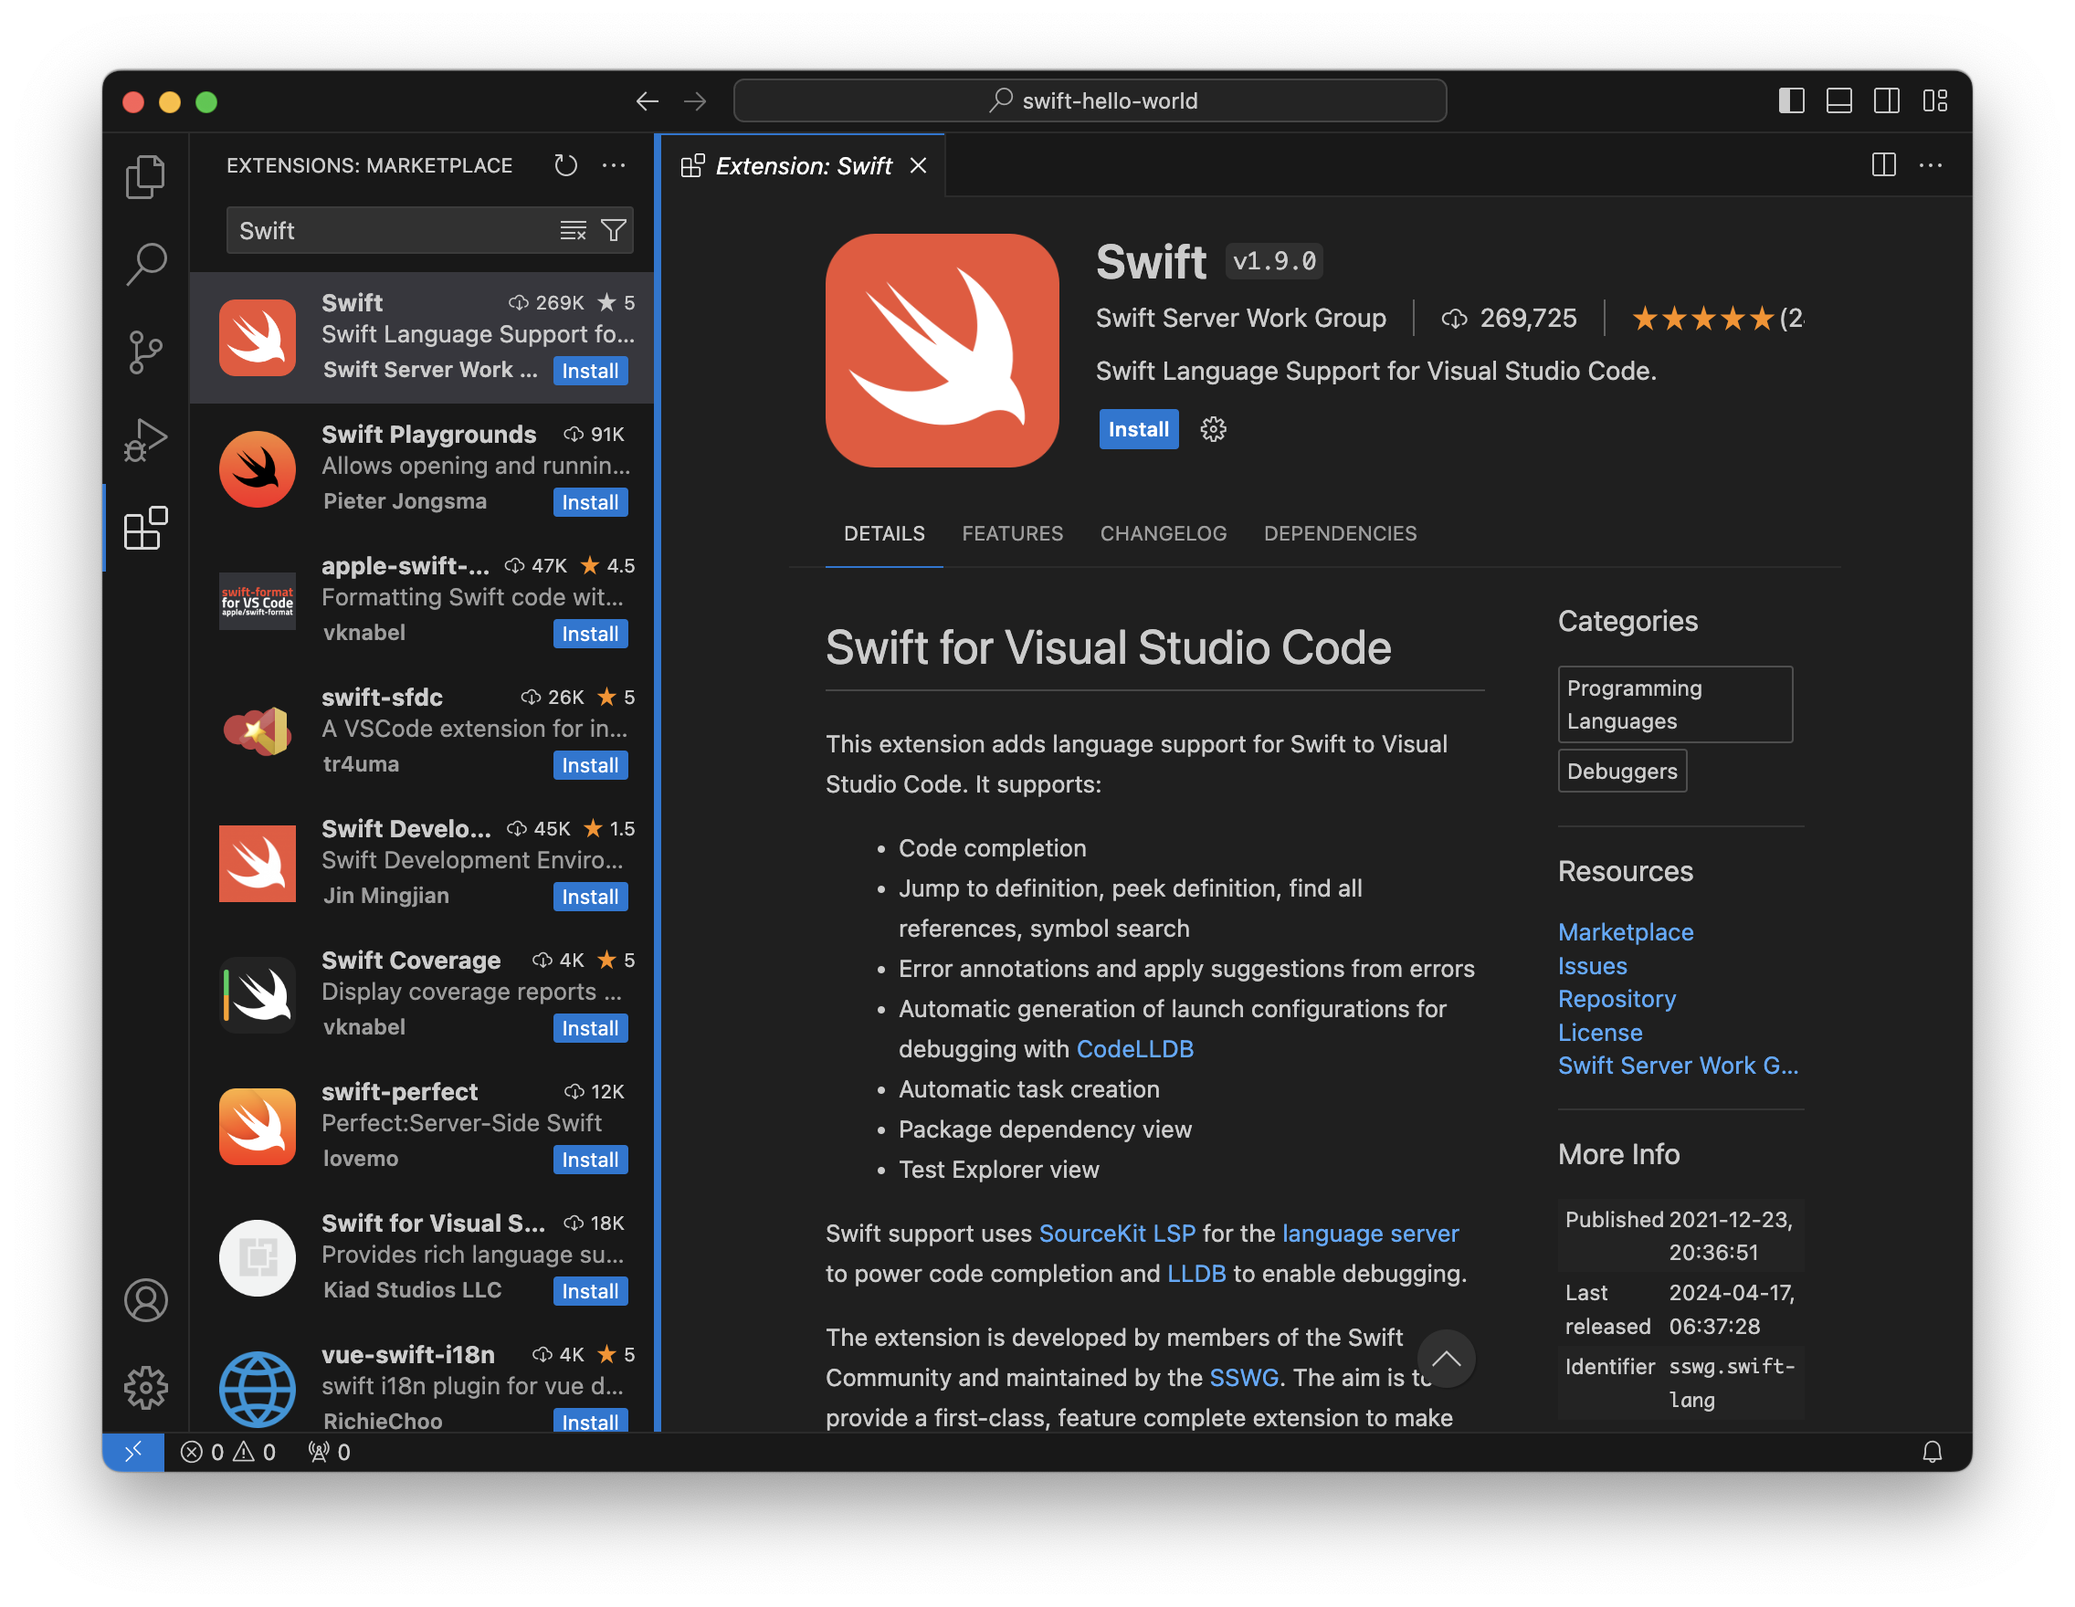
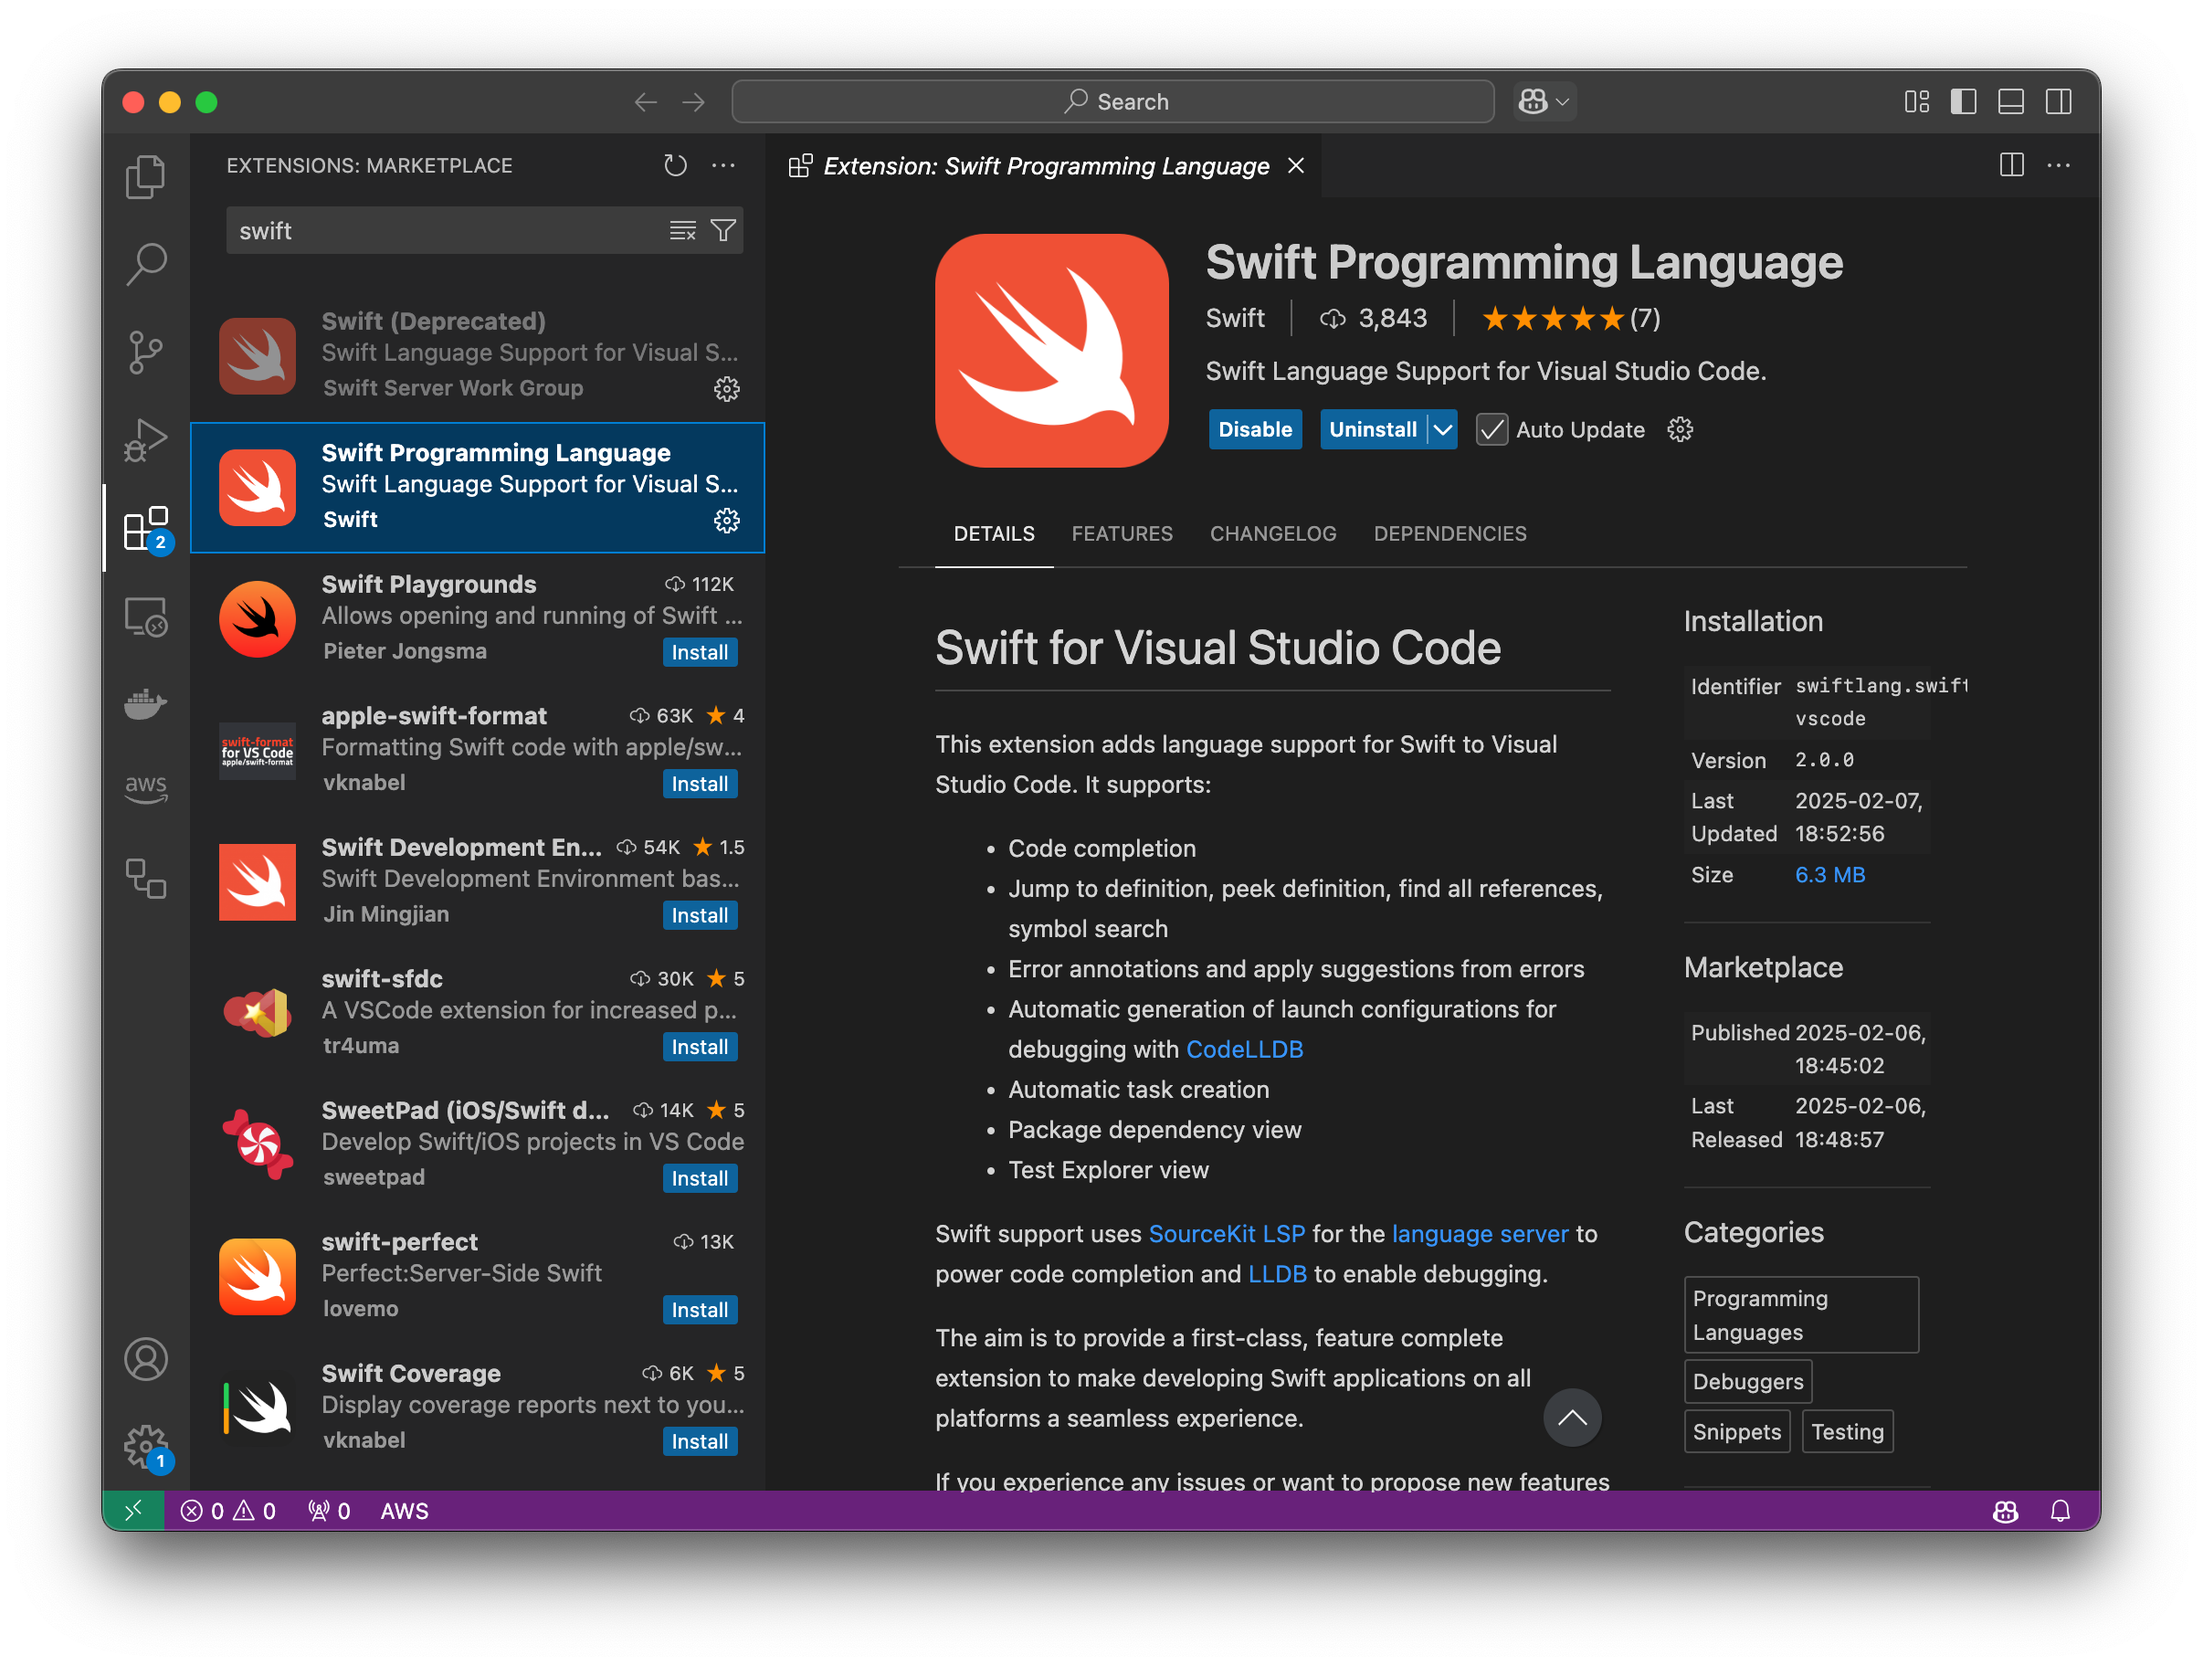
Update extension references and remove old guide

Changed region(s): [[0.0312, 0.0312, 0.9688, 0.9688], [0.75, 0.3438, 0.875, 0.6875]]

diff --git a/gsoc2024/index.md b/gsoc2024/index.md
@@ -147,7 +147,7 @@ Provide all keyword or punctuator completions that are valid at a certain positi
 
 Swift Macros allow the generation of source code at compile time. While this provides concise code and avoids repetition of common paradigms, understanding the source code can become harder if it is unknown what the macro expands to. 
 
-Visual Studio Code using the [Swift Extension](https://marketplace.visualstudio.com/items?itemName=sswg.swift-lang) currently has limited ability to show the code generated by a macro by invoking a code action that replaces the macro by its generated code inside the current source file. 
+Visual Studio Code using the [Swift Extension](https://marketplace.visualstudio.com/items?itemName=swiftlang.swift-vscode) currently has limited ability to show the code generated by a macro by invoking a code action that replaces the macro by its generated code inside the current source file. 
 
 The project's goal is to implement a code action to show the macro-generated code without modifying the current source file. This includes the implementation of a request in [sourcekit-lsp](https://github.com/swiftlang/sourcekit-lsp) to compute the contents of the macro expansion and support in the Visual Studio Swift Extension to display that content. Some initial discussion of how the design could look like can be found in [this thread](https://github.com/swiftlang/sourcekit-lsp/pull/892#discussion_r1358428808).
 

diff --git a/_posts/2023-08-17-sswg-update-2023.md b/_posts/2023-08-17-sswg-update-2023.md
@@ -42,7 +42,7 @@ We're also excited to see the introduction of [Custom Actor Executors](https://g
 
 Notable highlights in tooling include:
 
-* The [Swift Extension for Visual Studio Code](https://marketplace.visualstudio.com/items?itemName=sswg.swift-lang) reached version 1.0.0 and added new features like Swift Package plugin integration, Test Coverage and Test Explorer support, and more.
+* The [Swift Extension for Visual Studio Code](https://marketplace.visualstudio.com/items?itemName=swiftlang.swift-vscode) reached version 1.0.0 and added new features like Swift Package plugin integration, Test Coverage and Test Explorer support, and more.
 * Swift Package plugins have seen adoption in many libraries, from formatters and linters, to code generators such as [SwiftProtobuf](https://github.com/apple/swift-protobuf/tree/main/Plugins/SwiftProtobufPlugin), [gRPC swift](https://github.com/grpc/grpc-swift/tree/main/Plugins/GRPCSwiftPlugin), [Smoke](https://github.com/amzn/smoke-framework-application-generate/tree/main/Plugins), and [Soto](https://soto.codes/2022/12/build-plugin-experiments.html).
 * [Swiftly](https://github.com/swift-server/swiftly) is now available to try out and provides a simple way to install Swift on Linux and switch between versions.
 

diff --git a/_posts/2022-07-14-vscode-extension.md b/_posts/2022-07-14-vscode-extension.md
@@ -6,7 +6,7 @@ title: Swift Extension for Visual Studio Code
 author: adam-fowler
 ---
 
-As Swift is deployed across more platforms, it is important that Swift can be developed on more platforms as well. The [Swift Extension for Visual Studio Code](https://marketplace.visualstudio.com/items?itemName=sswg.swift-lang) provides a cross-platform solution for Swift development supporting macOS, Linux, and Windows.
+As Swift is deployed across more platforms, it is important that Swift can be developed on more platforms as well. The [Swift Extension for Visual Studio Code](https://marketplace.visualstudio.com/items?itemName=swiftlang.swift-vscode) provides a cross-platform solution for Swift development supporting macOS, Linux, and Windows.
 
 ##  Motivation
 

diff --git a/_posts/2022-08-18-sswg-server-guides.md b/_posts/2022-08-18-sswg-server-guides.md
@@ -10,7 +10,7 @@ The [Swift Server Workgroup](/sswg/) has maintained a set of open source guides 
 
 The guides cover a number of useful topics:
 
- * [Setting up your environment](/documentation/server/guides/setup-and-ide-alternatives.html)
+ * [Setting up your environment](/tools)
  * [Building]({{site.url}}/documentation/server/guides/building.html) and [testing]({{site.url}}/documentation/server/guides/testing.html)
  * [Profiling]({{site.url}}/documentation/server/guides/performance.html) and [deploying]({{site.url}}/documentation/server/guides/deployment.html) (including AWS, Digital Ocean, Heroku, and GCP)
  * [Docker best practices]({{site.url}}/documentation/server/guides/packaging.html)

diff --git a/documentation/articles/getting-started-with-vscode-swift.md b/documentation/articles/getting-started-with-vscode-swift.md
@@ -30,7 +30,7 @@ The Swift extension is designed to support the following projects:
    [Getting Started Guide on Swift.org](/getting-started/).
 2. Download and install [Visual Studio Code](https://code.visualstudio.com/Download).
 3. Install the Swift extension from the
-   [VS Code Marketplace](https://marketplace.visualstudio.com/items?itemName=sswg.swift-lang)
+   [VS Code Marketplace](https://marketplace.visualstudio.com/items?itemName=swiftlang.swift-vscode)
    or directly from within the VS Code extensions pane.
 
 ![Installing the vscode-swift extension from the extensions pane](/assets/images/getting-started-with-vscode-swift/installation.png)

diff --git a/documentation/server/guides/index.md b/documentation/server/guides/index.md
@@ -7,7 +7,6 @@ The Swift Server Workgroup and Swift on Server community have developed a number
 
 They focus on how to compile, test, deploy and debug such application and provides tips in those areas.
 
-- [Setup and code editing](/documentation/server/guides/setup-and-ide-alternatives.html)
 - [Building](/documentation/server/guides/building.html)
 - [Testing](/documentation/server/guides/testing.html)
 - [Debugging Memory leaks](/documentation/server/guides/memory-leaks-and-usage.html)
